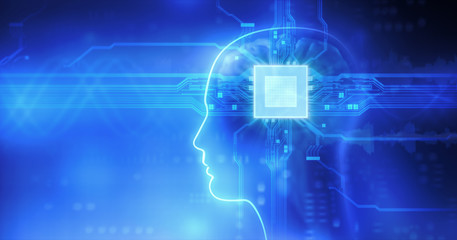
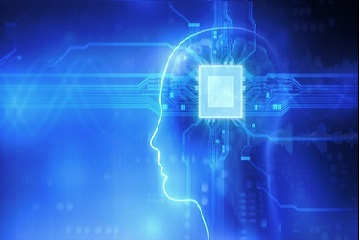
changes on images

diff --git a/index.html b/index.html
@@ -106,28 +106,28 @@
                 <li>
                     <div class="col-lg-3 col-xs-6" >
                         <h4 style="color: black; margin: 7px">Жълт код за валежи</h4>
-                        <img class="img-responsive" src="src/rain.jpg" style="width: 243px; height: 160px; margin: 5px">
+                        <img class="img-responsive img-thumbnail" src="src/rain.jpg">
                         <small style="color: darkred; margin: 7px">Времето</small>
                     </div>
                 </li>
                 <li>
                     <div class="col-lg-3 col-xs-6">
                         <h4 style="color: black; margin: 7px">Протести в цялата страна</h4>
-                        <img class="img-responsive" src="src/protest.jpg" style="width: 243px; height: 160px; margin: 5px">
+                        <img class="img-responsive img-thumbnail" src="src/protest.jpg">
                         <small style="color: darkred; margin: 7px">Новини/Политика</small>
                     </div>
                 </li>
                 <li>
                     <div class="col-lg-3 col-xs-6" >
                         <h4 style="color: black; margin: 7px">Ще измести ли изкуственият интелект човека</h4>
-                        <img class="img-responsive" src="src/AI.jpg" style="width: 243px; height: 160px; margin: 5px">
+                        <img class="img-responsive img-thumbnail" src="src/AI.jpg">
                         <small style="color: darkred; margin: 7px">Наука</small>
                     </div>
                 </li>
                 <li>
                     <div class="col-lg-3 col-xs-6" >
                         <h4 style="color: black; margin: 7px">Благотворителен мач на националния стадион</h4>
-                        <img class="img-responsive" src="src/ball.jpg" style="width: 243px; height: 160px; margin: 5px">
+                        <img class="img-responsive img-thumbnail" src="src/ball.jpg">
                         <small style="color: darkred; margin: 7px">Спорт</small>
                     </div>
                 </li>
